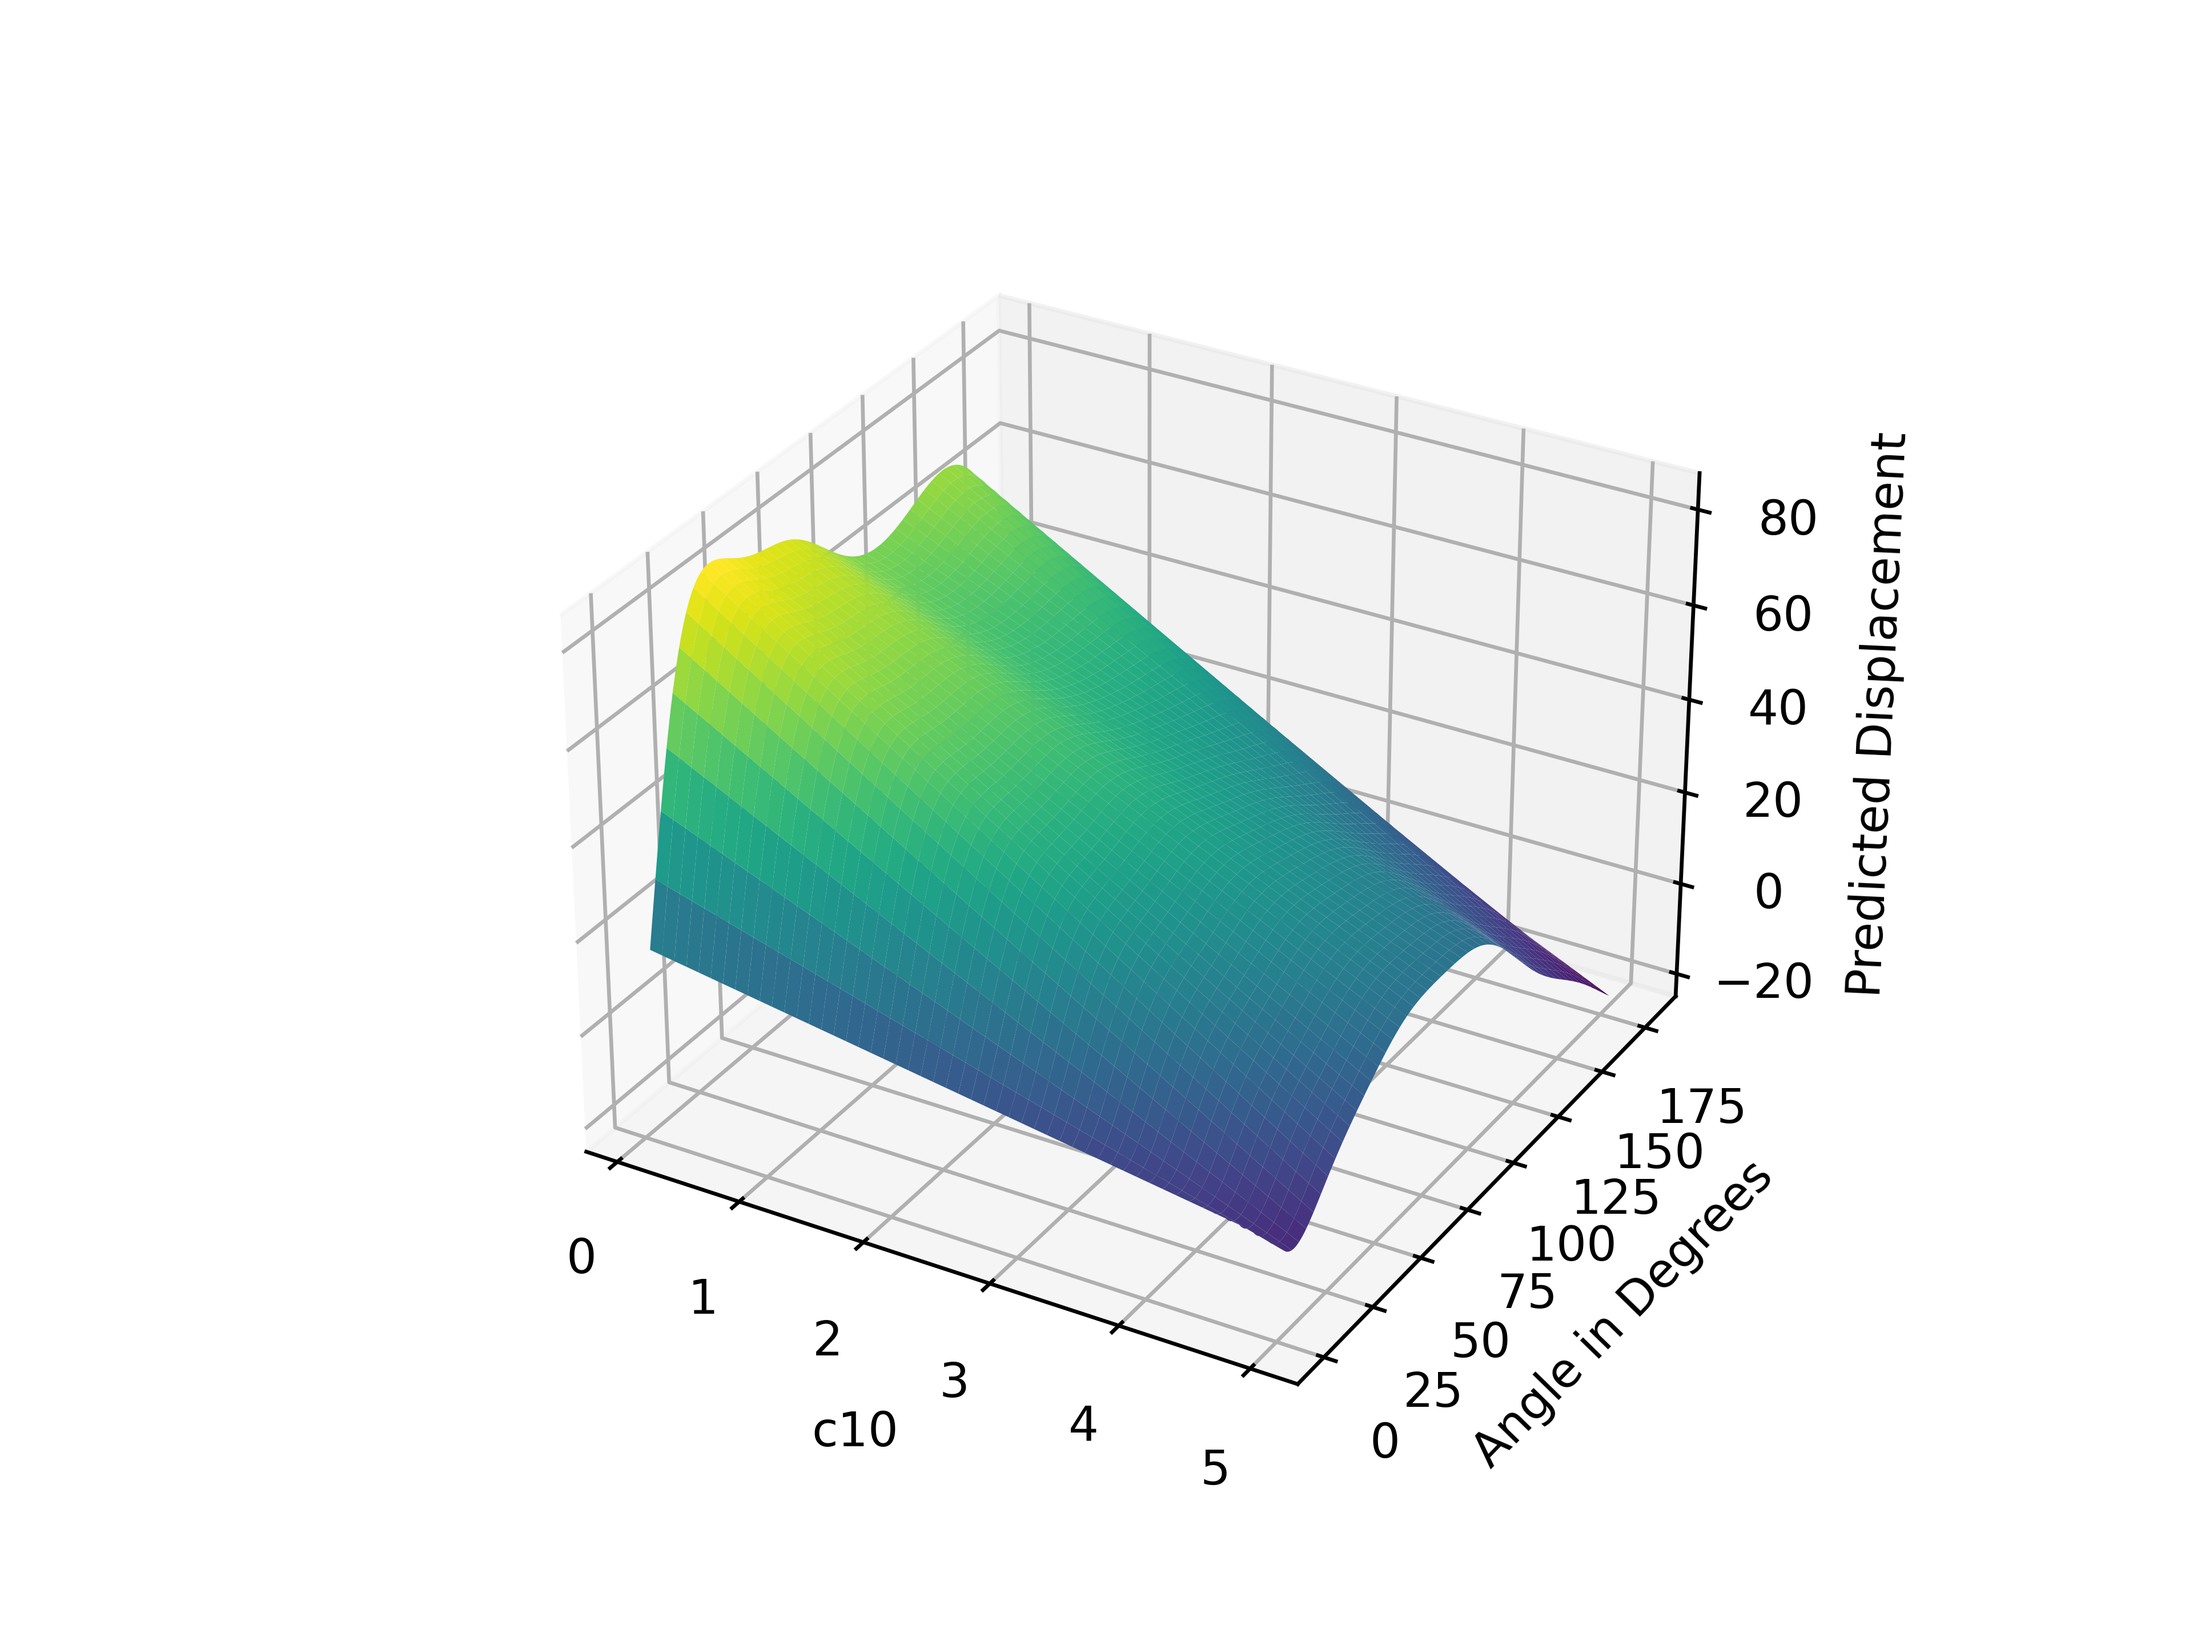
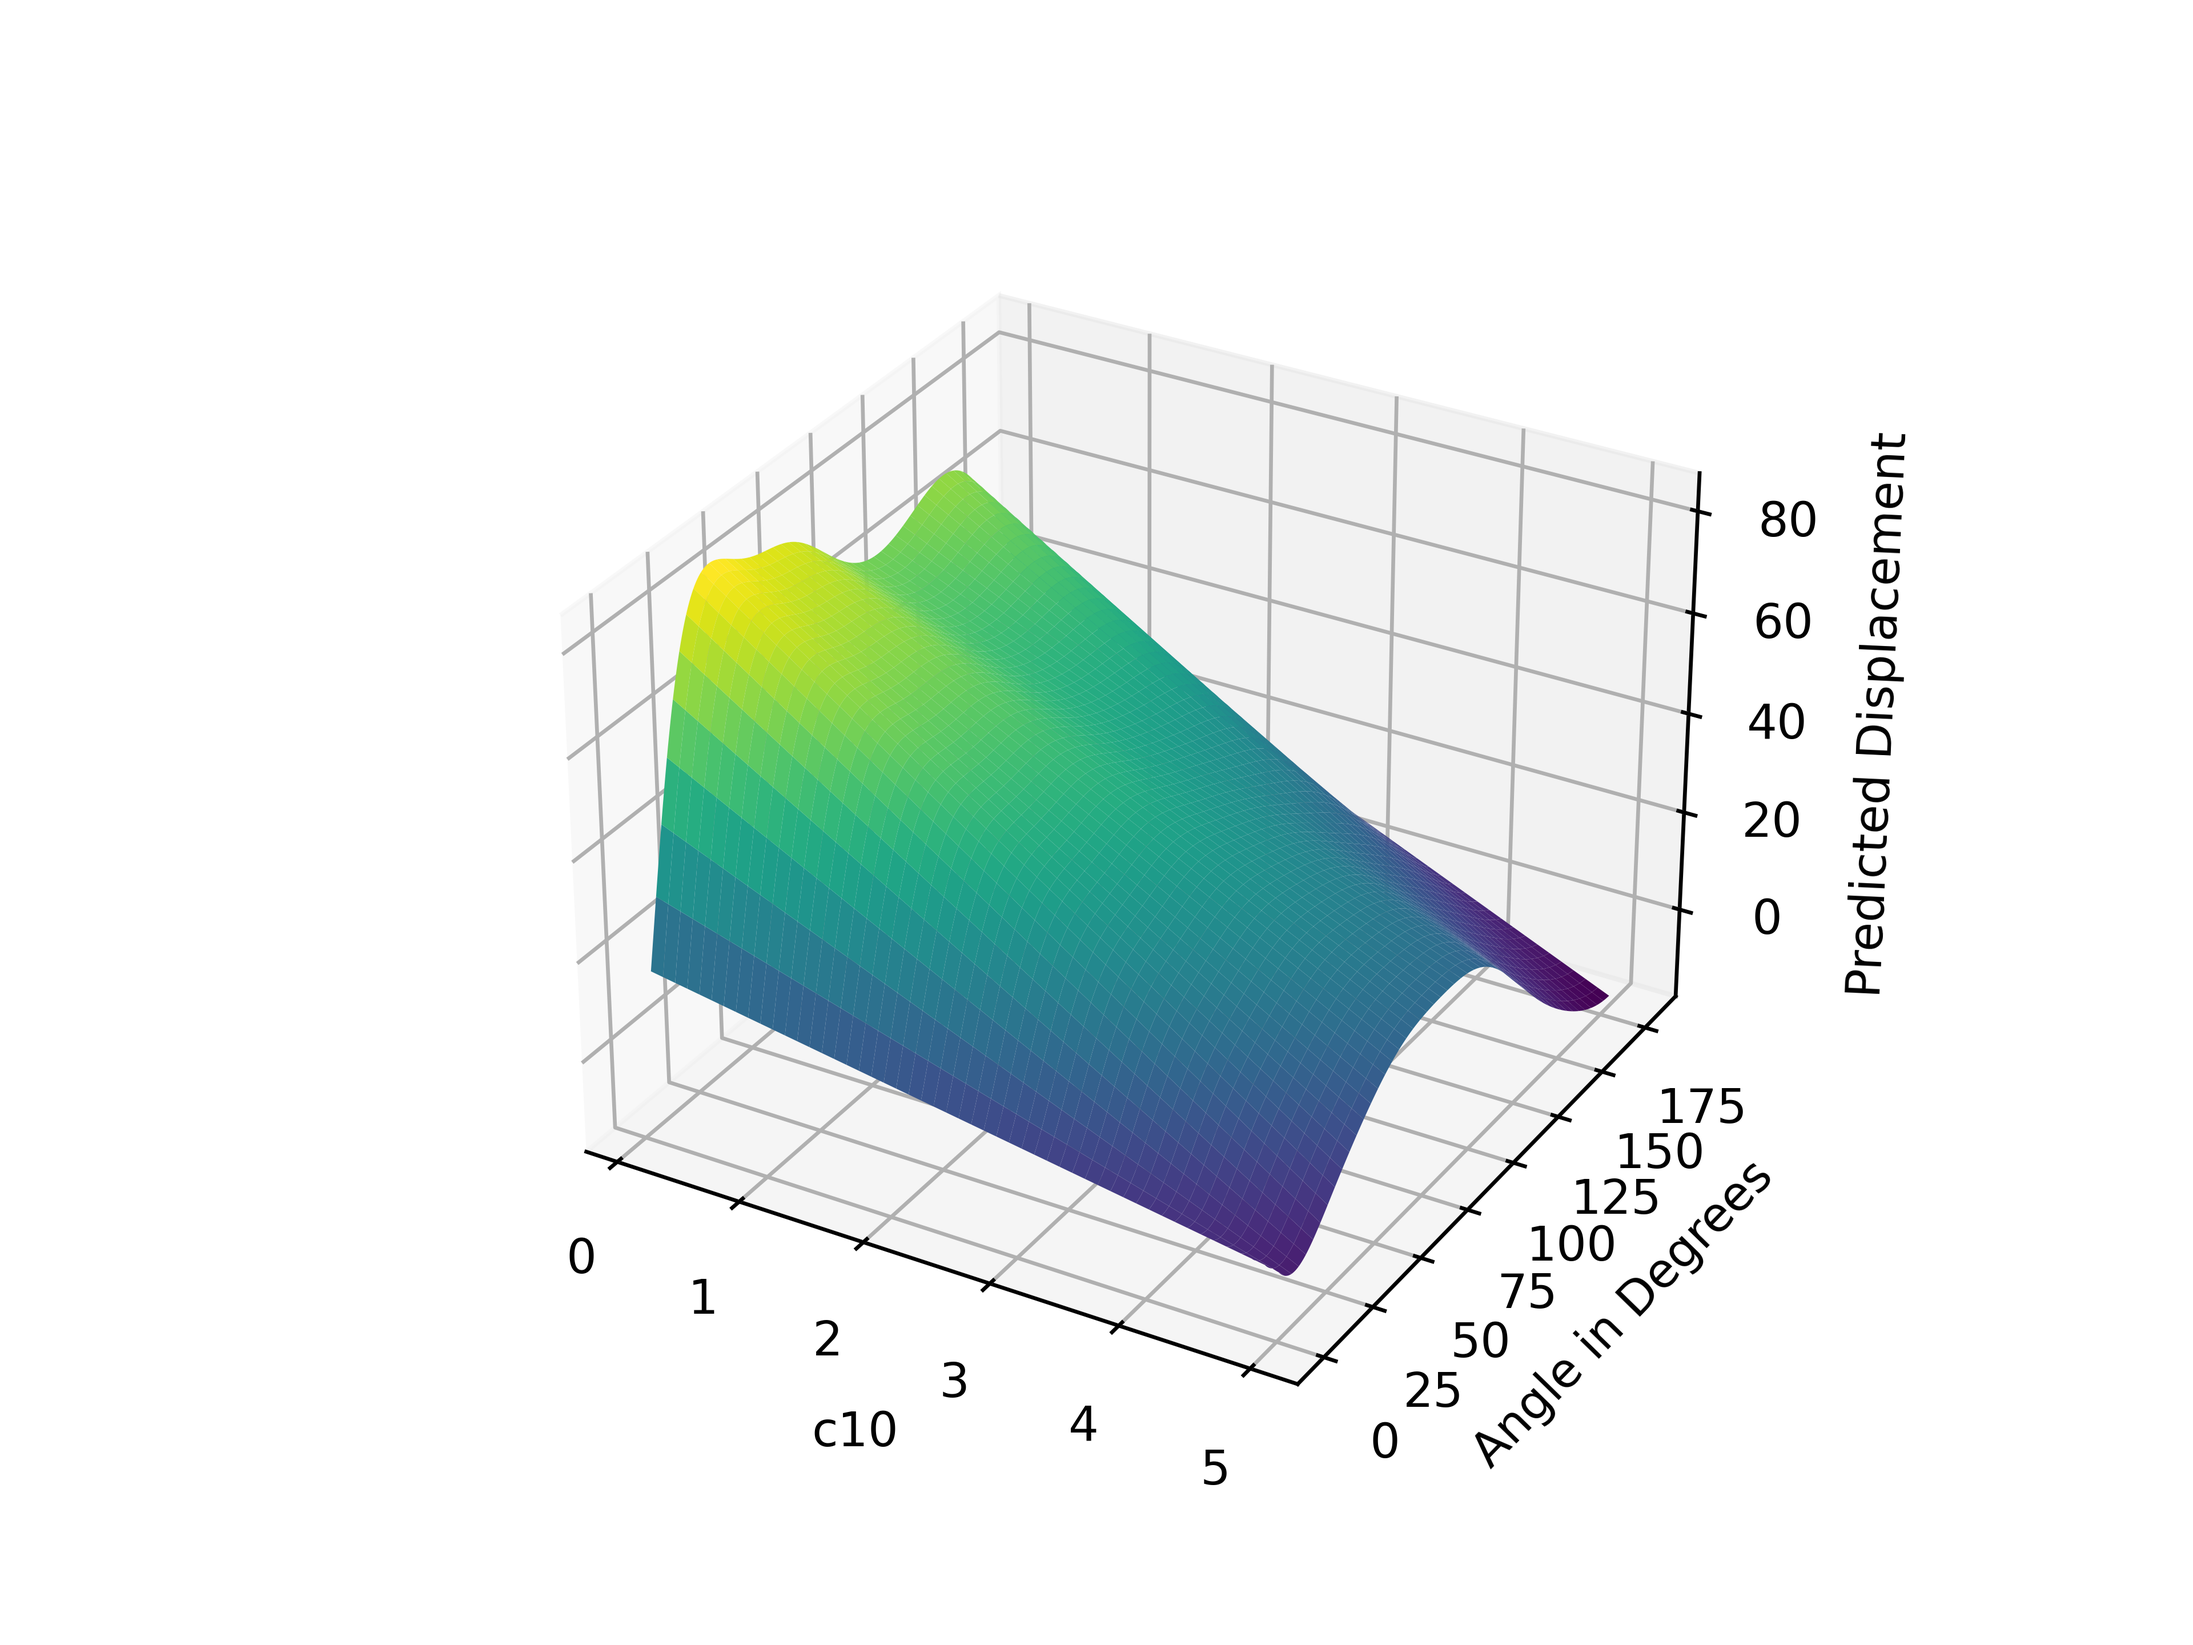
Replaced instances of jax.grad with jax.jacrev, thereby removing need for most functions in go_utilities.py. Output of beam_example_linearise_data_disp.py now saved to Pickle file.

diff --git a/beam_example_linearise_data.py b/beam_example_linearise_data.py
@@ -1,10 +1,11 @@
-
 import numpy as np
 import jax.numpy as jnp
 
 from gp_linearise import LinearisedModel
 
 from matplotlib import pyplot as plt
+
+import pickle
 
 def kernel(x_1, x_2, params):
     return params["const"]*jnp.exp(-0.5*((x_1 - x_2)/params["length"])**2)
@@ -20,43 +21,14 @@ if __name__ == "__main__":
 
     # Fit GP to w vs d data:
     dim_2_linearise = [1]
-    constraints  = {"const": {">": 10**(-2), "<": 10**3}, "length":{">": 10**(-2), "<": 10**3}}
-    surrogate = LinearisedModel(training_x, training_y, dim_2_linearise, kernel, constraints)
+    constraints  = {"const":{">": 10**(-2), "<": 10**3}, "length":{">": 10**0, "<": 10**2}}
+    LM = LinearisedModel(training_x, training_y, dim_2_linearise, kernel, constraints)
 
+    # Plot predicted displacement vs theta and d:
     plot_pts = 1000
-
-    # Plot predicted w vs d:
     d_plot = jnp.linspace(jnp.min(training_x[:,0]), jnp.max(training_x[:,0]), plot_pts)
-    w_plot, w_var = surrogate.predict_w(d_plot)[0]
-    fig = plt.figure()
-    plt.plot(d_plot, w_plot, 'b-', label='Prediction')
-    mean_minus_std = w_plot - 1.9600 * jnp.sqrt(w_var)
-    mean_plus_std = w_plot + 1.9600 * jnp.sqrt(w_var)
-    plt.fill(jnp.concatenate([w_plot, w_plot[::-1]]),
-         jnp.concatenate([mean_minus_std,
-                        (mean_plus_std)[::-1]]),
-         alpha=.5, fc='b', ec='None', label='95% confidence interval')
-    plt.xlabel('$d$')
-    plt.ylabel('$w(d)$')
-    plt.legend(loc='upper left')
-    plt.savefig('beam_example_linearise_data_w.png', dpi=600)
-
-    # Plot predicted b vs d:
-    b_plot, b_var = surrogate.predict_w(d_plot)[1]
-    fig = plt.figure()
-    plt.plot(d_plot, b_plot, 'b-', label='Prediction')
-    mean_minus_std = b_plot - 1.9600 * jnp.sqrt(b_var)
-    mean_plus_std = b_plot + 1.9600 * jnp.sqrt(b_var)
-    plt.fill(jnp.concatenate([b_plot, b_plot[::-1]]),
-         jnp.concatenate([mean_minus_std,
-                        (mean_plus_std)[::-1]]),
-         alpha=.5, fc='b', ec='None', label='95% confidence interval')
-    plt.xlabel('$d$')
-    plt.ylabel('$b(d)$')
-    plt.legend(loc='upper left')
-    plt.savefig('beam_example_linearise_data_b.png', dpi=600)
-
-    # Plot predicted displacement vs theta and d: [angle, c10, disp]
+    w_plot, w_var = LM.predict_weights(d_plot)[0]
+    b_plot, b_var = LM.predict_weights(d_plot)[1]
     theta_plot = jnp.linspace(jnp.min(training_x[:,1]), jnp.max(training_x[:,1]), plot_pts)
     theta_grid, d_grid = jnp.meshgrid(theta_plot, d_plot)
     y_grid = jnp.multiply(theta_grid, w_plot[:, np.newaxis]) + b_plot[:,np.newaxis]
@@ -67,3 +39,11 @@ if __name__ == "__main__":
     ax.set_ylabel("Angle in Degrees")
     ax.set_zlabel("Predicted Displacement")
     plt.savefig('beam_example_linearise_data_disp.png', dpi=600)
+
+    # Save Gaussian process model to Pickle file:
+    with open("beam_gp.obj", 'wb') as f: 
+        # Can't save entire object since vmap'd functions can't be saved:
+        dict_2_save = {"w_params": LM.w_surrogate.params, "w_alpha": LM.w_surrogate.alpha, "w_L": LM.w_surrogate.L, \
+        "b_params": LM.b_surrogate.params, "b_alpha": LM.b_surrogate.alpha, "b_L": LM.b_surrogate.L, \
+        "kernel": LM.w_surrogate.kernel, "x_train": LM.w_surrogate.x_train, }
+        pickle.dump(dict_2_save, f)

diff --git a/oed_gp.py b/oed_gp.py
@@ -3,8 +3,7 @@ import jax.numpy as jnp
 
 import numpy as np
 
-from gp_utilities import create_cov_diag_func, create_matrix_func, create_noisy_cov_func, create_kernel_grad_func
-from gp_utilities import chol_decomp
+from gp_utilities import chol_decomp, create_noisy_K, create_kernel_matrix_func, create_cov_diag_func
 from gp_optimise import opt_hyperparams
 
 from scipy.linalg import cho_solve, solve_triangular
@@ -13,46 +12,38 @@ from math import pi
 
 # y_train = (num_samples) - learning a single function!
 # x_train.size = (num_samples, num_features)
-
 # Constraints of the form: {"a":None, "b":{"<":1, ">":-1}, "c":None, "d":{"<":10}}
 
 class GP_Surrogate:
     def __init__(self, kernel_func, x_train, y_train, constraints):
 
         # TODO: Check dimensions of x_train and y_train
+        self.kernel = kernel_func
         self.x_train = x_train
         self.y_train = y_train
     
         # Create functions to compute covariance matrix:
-        self.cov_func = create_matrix_func(kernel_func, (0,None,None), (None,0,None))
+        self.K = create_kernel_matrix_func(kernel_func)
 
         # Create function which adds noise or jitter to covariance matrix:
         noise_flag = True if "noise" in constraints else False
-        noisy_cov_func = create_noisy_cov_func(self.cov_func, noise_flag)
-
+        noisy_K = create_noisy_K(self.K, noise_flag)
+        
         # Create functions to compute gradient of covariance matrix wrt hyperparameters:
-        param_names = list(constraints.keys())
-        in_axes_inner = [0 if x == 0 else None for x in range(len(param_names)+2)]
-        in_axes_outer = [0 if x == 1 else None for x in range(len(param_names)+2)]
-        grad_funcs = {}
-        for i, name in enumerate(param_names):
-            if name != "noise":
-                kernel_grad_func = create_kernel_grad_func(kernel_func, param_names, i)
-                grad_funcs[name] = create_matrix_func(kernel_grad_func, in_axes_inner, in_axes_outer)
-            else:
-                grad_funcs[name] = lambda x, y, *params : jnp.identity(x.shape[0])
+        grad_funcs = jax.jacrev(noisy_K, argnums=2)
+
         # Optimise hyperparameters of covariance function:    
-        self.params = opt_hyperparams(x_train, y_train, noisy_cov_func, grad_funcs, constraints)
+        self.params = opt_hyperparams(x_train, y_train, noisy_K, grad_funcs, constraints)
 
         # With optimal hyperparameters, compute covariance matrix and inverse covariance matrix:
-        train_K = noisy_cov_func(x_train, x_train, self.params)
+        train_K = noisy_K(x_train, x_train, self.params)
         self.L = chol_decomp(train_K)
         self.alpha = cho_solve((self.L, True), y_train)
-        self.cov_diag_func = create_cov_diag_func(kernel_func, noise_flag)
+        self.cov_diag_func = create_cov_diag_func(kernel_func)
 
     def predict(self, x_new, min_var=10**(-9)):
         x_new = jnp.atleast_2d(x_new)
-        k = self.cov_func(self.x_train, x_new, self.params)
+        k = self.K(self.x_train, x_new, self.params)
         mean = k.T @ self.alpha 
         v = solve_triangular(self.L, k, lower=True)
         var = self.cov_diag_func(x_new, x_new, self.params) -  jnp.sum(v*v, axis=0, keepdims=True)

diff --git a/gp_utilities.py b/gp_utilities.py
@@ -3,44 +3,23 @@ import jax.numpy as jnp
 from nearest_pd import nearestPD
 from scipy.linalg import cholesky
 
-def create_unpacked_kernel_func(kernel_func, param_names):
-    def unpacked_kernel(x, y, *params):
-        param_dict = {}
-        for i, value in enumerate(params):
-            param_dict[param_names[i]] = value
-        kernel_val = kernel_func(x, y, param_dict)
-        return kernel_val
-    return unpacked_kernel
-
-def create_kernel_grad_func(kernel_func, param_names, d_idx):
-    def kernel_func_to_grad(x, y, *params):
-        param_dict = {}
-        for i, value in enumerate(params):
-            param_dict[param_names[i]] = value
-        kernel_val = kernel_func(x, y, param_dict)
-        return kernel_val.reshape(())
-    return jax.grad(kernel_func_to_grad, argnums=(d_idx+2))
-
-def create_noisy_cov_func(cov_func, noise_flag):
-    jitter = 10**(-10)
+def create_noisy_K(cov_func, noise_flag):
+    jitter = 10**(-9)
     def K_noisy(x_1, x_2, params):  
         K = cov_func(x_1, x_2, params)
         K = K + jnp.identity(K.shape[0])*jitter
-        if noise_flag: K = K + jnp.identity(K.shape[0])*params["noise"]
+        K = K + jnp.identity(K.shape[0])*params["noise"] if noise_flag else K
         return K
     return K_noisy
 
-def create_matrix_func(scalar_func, in_axes_inner, in_axes_outer):
-    matrix_func = jax.vmap(jax.vmap(scalar_func, in_axes=in_axes_inner, out_axes=0), in_axes=in_axes_outer, out_axes=1)
-    def matrix_scalar_func(x_1, x_2, *params):
-        return jnp.atleast_2d(matrix_func(x_1, x_2, *params).squeeze())
+def create_kernel_matrix_func(kernel_func):
+    matrix_func = jax.vmap(jax.vmap(kernel_func, in_axes=(0,None,None), out_axes=0), in_axes=(None,0,None), out_axes=1)
+    def matrix_scalar_func(x_1, x_2, params):
+        return jnp.atleast_2d(matrix_func(x_1, x_2, params).squeeze())
     return matrix_scalar_func
 
-def create_cov_diag_func(kernel_func, noise_flag):
-    def kernel_plus_noise(x_1, x_2, params):
-        noise = params["noise"] if noise_flag else 0.
-        return kernel_func(x_1, x_2, params) + noise
-    vectorised_kernel = jax.vmap(kernel_plus_noise, in_axes=(0,0,None), out_axes=0)
+def create_cov_diag_func(kernel_func):
+    vectorised_kernel = jax.vmap(kernel_func, in_axes=(0,0,None), out_axes=0)
     def vectorised_kernel_func(x_1, x_2, params):
         return jnp.atleast_2d(vectorised_kernel(x_1, x_2, params).squeeze())
     return vectorised_kernel_func

diff --git a/gp_optimise.py b/gp_optimise.py
@@ -36,12 +36,12 @@ def loss_and_grad_func_template(params, x_train, y_train, K_fun, K_grad_fun, idx
     L = chol_decomp(K)
     alpha = jnp.atleast_2d(cho_solve((L, True), y_train)).reshape(K.shape[0], 1)
     alpha_outer = jnp.outer(alpha, alpha)
+    K_grad_vals = K_grad_fun(x_train, x_train, param_dict)
     loss_grad = []
-    K_grad_store = []
     for key in param_dict.keys():
-        K_grad = K_grad_fun[key](x_train, x_train, *params)
-        K_grad_store.append(K_grad)
-        loss_grad.append(-0.5*jnp.trace(alpha_outer @ K_grad - cho_solve((L, True), K_grad)))
+        #K_grad = K_grad_fun[key](x_train, x_train, *params)
+        #loss_grad.append(-0.5*jnp.trace(alpha_outer @ K_grad - cho_solve((L, True), K_grad)))
+        loss_grad.append(-0.5*jnp.trace(alpha_outer @ K_grad_vals[key] - cho_solve((L, True), K_grad_vals[key])))
     loss  = 0.5*y_train.T @ alpha + jnp.log(jnp.diag(L)).sum() + (K.shape[0]/2)*jnp.log(2*pi)
     loss, loss_grad = np.array(loss, dtype=np.float64).ravel(), np.array(loss_grad, dtype=np.float64).squeeze()
     print(loss)

diff --git a/gp_linearise.py b/gp_linearise.py
@@ -16,10 +16,15 @@ class LinearisedModel:
         self.w_surrogate = GP_Surrogate(kernel, training_d, training_w[:,0], kernel_constraints)
         self.b_surrogate = GP_Surrogate(kernel, training_d, training_w[:,1], kernel_constraints)
 
-    def predict_w(self, d):
+    def predict_weights(self, d):
         w = self.w_surrogate.predict(d)
         b = self.b_surrogate.predict(d)
         return (w, b)
+
+    def predict_pt(self, theta, d):
+        w = self.w_surrogate.predict(d)
+        b = self.b_surrogate.predict(d)
+        return w @ theta + b
 
 def linearise_data(x, y, dim_2_lin, intercept_flag, epsilon = 10**(-3)):
     # Ensure x.shape = (num_samples, num_features) and y.shape = (num_samples, num_targets)
